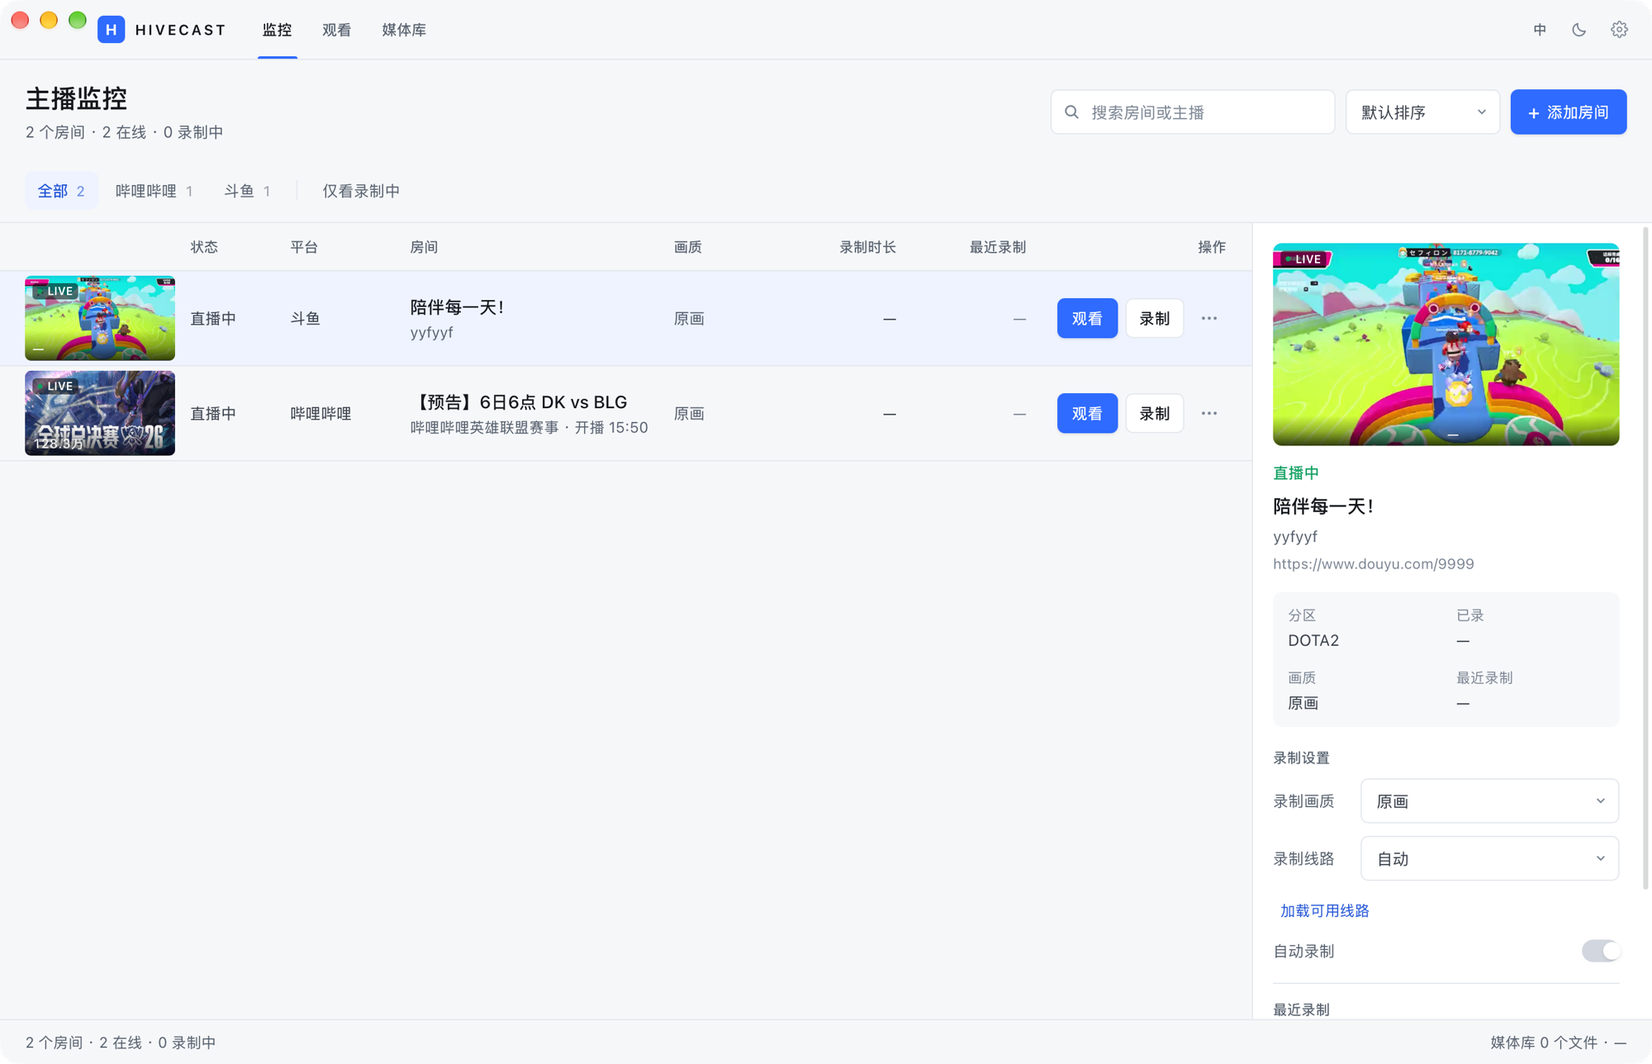
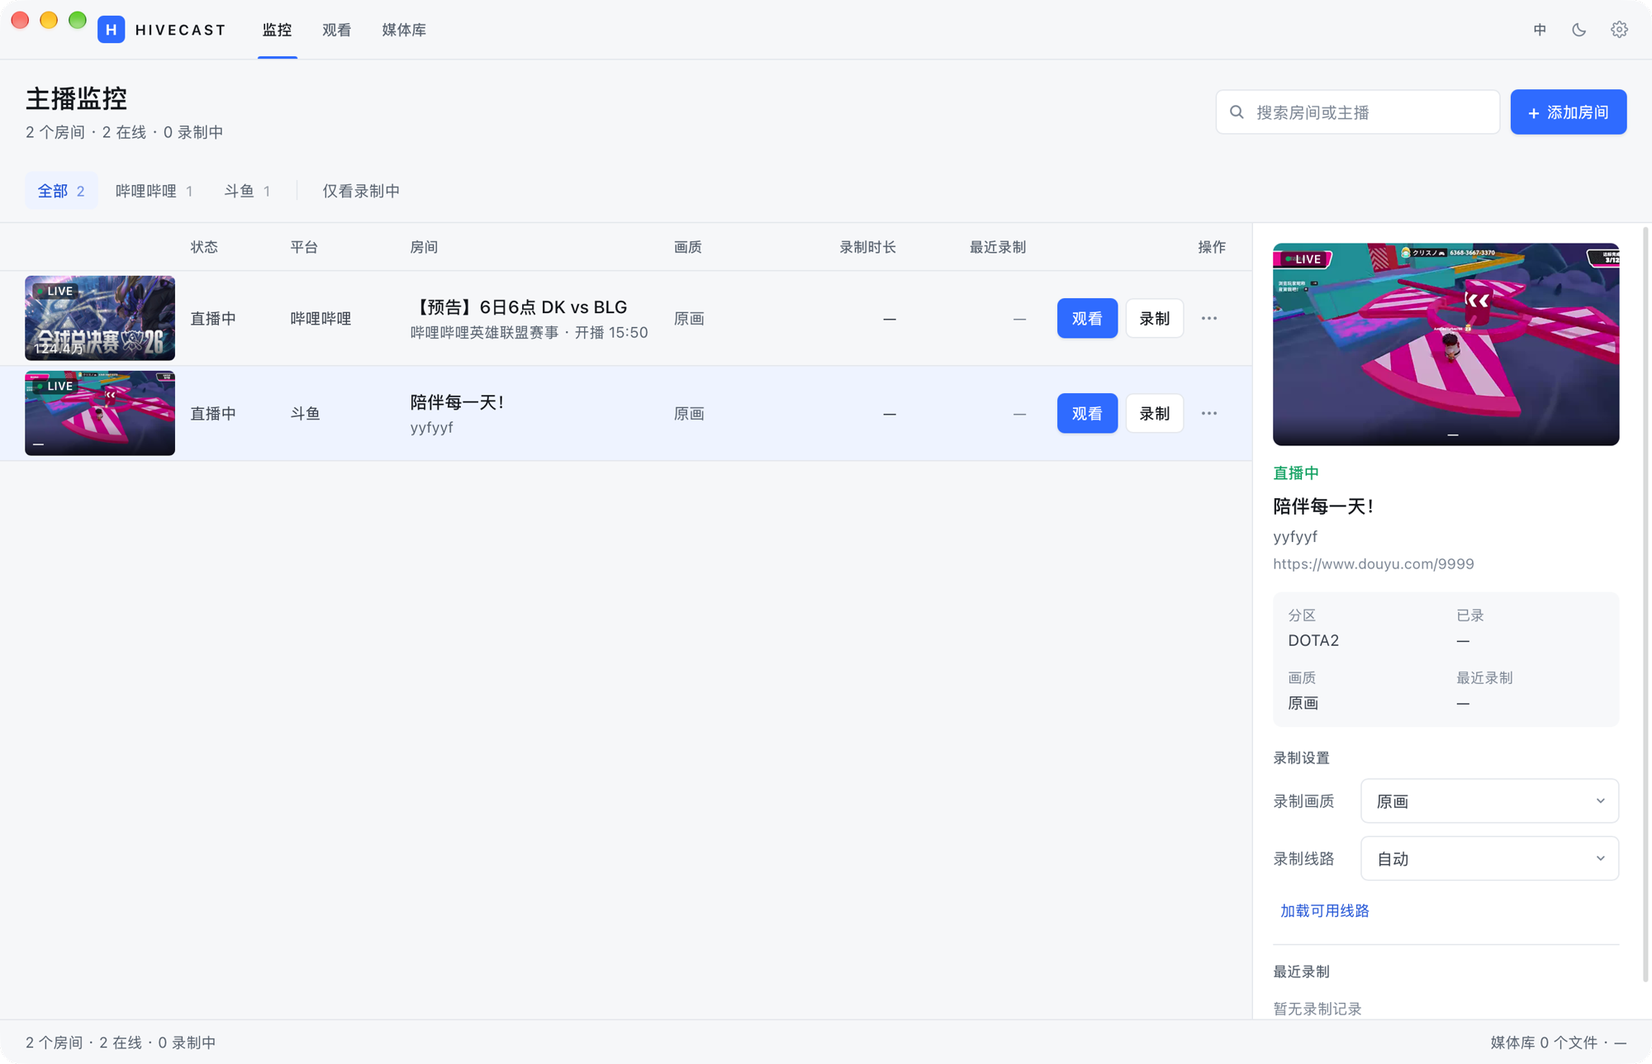
feat(ui): 监控页去掉排序、添加房间改弹窗、自动录制进菜单
- 排序固定按主播名称（localeCompare + numeric），删除排序下拉与相关文案
- 添加房间改为页面上方居中浮层：遮罩模糊、Esc/遮罩/✕ 关闭、回车提交
- 自动录制开关移入行内 ⋯ 菜单，显示开/关与勾选；详情栏不再重复
- 详情栏移除房间按钮删除，只保留菜单入口
- MP4/截图/ASS 三个后处理按钮补悬停说明
- docs/41 升到 v1.2 并换三张实测截图

diff --git a/src/features/monitor/MonitorPage.tsx b/src/features/monitor/MonitorPage.tsx
@@ -1,6 +1,6 @@
 import { useCallback, useEffect, useMemo, useState } from "react";
 import { useTranslation } from "react-i18next";
-import { Button, Select, Switch, cx } from "../../components/ui/Controls";
+import { Button, Select, cx } from "../../components/ui/Controls";
 import {
   describeError,
   isTauri,
@@ -38,7 +38,6 @@ const THUMB_W = 120;
 const THUMB_H = 68;
 
 type PostKind = "mp4" | "shot" | "ass" | "merge";
-type SortKey = "default" | "online" | "title";
 
 function pad(value: number): string {
   return value < 10 ? "0" + value : String(value);
@@ -155,7 +154,6 @@ export default function MonitorPage({ onOpenWatch }: { onOpenWatch?: () => void 
   const [query, setQuery] = useState("");
   const [platform, setPlatform] = useState("all");
   const [onlyRecording, setOnlyRecording] = useState(false);
-  const [sort, setSort] = useState<SortKey>("default");
   const [addOpen, setAddOpen] = useState(false);
   const [input, setInput] = useState("");
   const [adding, setAdding] = useState(false);
@@ -165,6 +163,17 @@ export default function MonitorPage({ onOpenWatch }: { onOpenWatch?: () => void 
   const [now, setNow] = useState(() => Date.now());
   const [selectedId, setSelectedId] = useState<string | null>(null);
   const [menuId, setMenuId] = useState<string | null>(null);
+  useEffect(() => {
+    if (!addOpen) return;
+    const onKey = (event: KeyboardEvent) => {
+      if (event.key === "Escape") {
+        setAddOpen(false);
+        setInput("");
+      }
+    };
+    window.addEventListener("keydown", onKey);
+    return () => window.removeEventListener("keydown", onKey);
+  }, [addOpen]);
   const [lines, setLines] = useState<LineInfo[] | null>(null);
   const [lineBusy, setLineBusy] = useState(false);
   const [postBusy, setPostBusy] = useState<string | null>(null);
@@ -250,14 +259,10 @@ export default function MonitorPage({ onOpenWatch }: { onOpenWatch?: () => void 
       if (!needle) return true;
       return (view.room.title + " " + view.room.hostName + " " + view.room.roomKey).toLowerCase().includes(needle);
     });
-    const rank = (view: RoomView) => (view.recording ? 0 : view.room.isLive ? 1 : 2);
-    return list.sort((a, b) => {
-      if (sort === "online") return b.room.online - a.room.online;
-      if (sort === "title") return (a.room.title || a.room.roomKey).localeCompare(b.room.title || b.room.roomKey);
-      const delta = rank(a) - rank(b);
-      return delta !== 0 ? delta : b.room.lastCheckedAt - a.room.lastCheckedAt;
-    });
-  }, [views, query, platform, onlyRecording, sort]);
+    // 固定按主播名称排序（中文按拼音、数字按数值），不再提供排序入口。
+    const label = (view: RoomView) => view.room.hostName || view.room.title || view.room.roomKey;
+    return list.sort((a, b) => label(a).localeCompare(label(b), undefined, { numeric: true }));
+  }, [views, query, platform, onlyRecording]);
 
   const selected = useMemo(() => views.find((view) => view.room.id === selectedId) ?? null, [views, selectedId]);
   const selectedSessions = useMemo(
@@ -489,7 +494,27 @@ export default function MonitorPage({ onOpenWatch }: { onOpenWatch?: () => void 
           {menuId === room.id ? (
             <>
               <div className="fixed inset-0 z-30" onClick={() => setMenuId(null)} />
-              <div className="absolute right-0 top-9 z-40 w-[136px] overflow-hidden rounded-[8px] border border-line bg-surface py-1 shadow-pop animate-pop">
+              <div className="absolute right-0 top-9 z-40 w-[176px] overflow-hidden rounded-[8px] border border-line bg-surface py-1 shadow-pop animate-pop">
+                <button
+                  type="button"
+                  onClick={() => {
+                    setMenuId(null);
+                    void run(room.id, () => roomSetAutoRecord(room.id, !room.autoRecord));
+                  }}
+                  className="flex h-8 w-full items-center gap-2 px-3 text-left text-[12.5px] text-ink-soft transition-colors hover:bg-raised"
+                >
+                  <span className="flex h-3.5 w-3.5 shrink-0 items-center justify-center text-accent-text">
+                    {room.autoRecord ? (
+                      <svg width="12" height="12" viewBox="0 0 12 12" fill="none" aria-hidden>
+                        <path d="M2.5 6.4l2.3 2.3 4.7-4.9" stroke="currentColor" strokeWidth="1.6" strokeLinecap="round" strokeLinejoin="round" />
+                      </svg>
+                    ) : null}
+                  </span>
+                  <span className="min-w-0 flex-1 truncate">{t("monitor.autoRecord")}</span>
+                  <span className="shrink-0 text-[11.5px] text-faint">
+                    {room.autoRecord ? t("monitor.toggleOn") : t("monitor.toggleOff")}
+                  </span>
+                </button>
                 <button
                   type="button"
                   disabled={!last}
@@ -521,7 +546,6 @@ export default function MonitorPage({ onOpenWatch }: { onOpenWatch?: () => void 
     const busy = busyId === room.id;
     const last = lastByRoom.get(room.id);
     const isRecording = Boolean(view.recording);
-    const confirm = confirmId === room.id;
     return (
       <aside className="flex w-[320px] shrink-0 flex-col overflow-y-auto border-l border-line bg-surface">
         <div className="p-4">
@@ -611,14 +635,6 @@ export default function MonitorPage({ onOpenWatch }: { onOpenWatch?: () => void 
             ) : lines.length === 0 ? (
               <span className="block text-[11.5px] text-faint">{t("monitor.lineEmpty")}</span>
             ) : null}
-            <div className="flex items-center justify-between pt-0.5">
-              <span className="text-[12.5px] text-muted">{t("monitor.autoRecord")}</span>
-              <Switch
-                checked={room.autoRecord}
-                label={t("monitor.autoRecord")}
-                onChange={(next) => void run(room.id, () => roomSetAutoRecord(room.id, next))}
-              />
-            </div>
           </div>
 
           <div className="mt-4 flex items-center gap-2 border-t border-line pt-3">
@@ -658,6 +674,7 @@ export default function MonitorPage({ onOpenWatch }: { onOpenWatch?: () => void 
                           <button
                             type="button"
                             disabled={postBusy === postKey(room.id, "mp4", session.id)}
+                            title={t("monitor.post.mp4Hint")}
                             onClick={() => void doPost(room.id, "mp4", session.id)}
                             className="focus-ring h-6 rounded-ctl border border-line px-1.5 text-[11px] text-ink-soft transition-colors hover:bg-raised disabled:opacity-40"
                           >
@@ -666,6 +683,7 @@ export default function MonitorPage({ onOpenWatch }: { onOpenWatch?: () => void 
                           <button
                             type="button"
                             disabled={postBusy === postKey(room.id, "shot", session.id)}
+                            title={t("monitor.post.shotHint")}
                             onClick={() => void doPost(room.id, "shot", session.id)}
                             className="focus-ring h-6 rounded-ctl border border-line px-1.5 text-[11px] text-ink-soft transition-colors hover:bg-raised disabled:opacity-40"
                           >
@@ -675,6 +693,7 @@ export default function MonitorPage({ onOpenWatch }: { onOpenWatch?: () => void 
                             <button
                               type="button"
                               disabled={postBusy === postKey(room.id, "ass", session.id)}
+                              title={t("monitor.post.assHint")}
                               onClick={() => void doPost(room.id, "ass", session.id)}
                               className="focus-ring h-6 rounded-ctl border border-line px-1.5 text-[11px] text-ink-soft transition-colors hover:bg-raised disabled:opacity-40"
                             >
@@ -689,17 +708,6 @@ export default function MonitorPage({ onOpenWatch }: { onOpenWatch?: () => void 
               })}
             </div>
           )}
-
-          <div className="mt-4 border-t border-line pt-3">
-            <Button
-              variant="ghost"
-              className="h-8 px-2 text-[12.5px] text-muted hover:text-rec"
-              onBlur={() => setConfirmId(null)}
-              onClick={() => void removeRoom(room)}
-            >
-              {confirm ? t("monitor.confirmRemove") : t("monitor.removeRoom")}
-            </Button>
-          </div>
         </div>
       </aside>
     );
@@ -736,18 +744,6 @@ export default function MonitorPage({ onOpenWatch }: { onOpenWatch?: () => void 
               className="focus-ring h-9 w-[228px] rounded-ctl border border-line bg-surface pl-8 pr-2.5 text-[13px] text-ink transition-colors placeholder:text-faint hover:border-line-strong"
             />
           </div>
-          <Select
-            value={sort}
-            onChange={(next) => setSort(next as SortKey)}
-            size="md"
-            title={t("monitor.sortLabel")}
-            options={[
-              { value: "default", label: t("monitor.sortDefault") },
-              { value: "online", label: t("monitor.sortOnline") },
-              { value: "title", label: t("monitor.sortTitle") },
-            ]}
-            className="w-[124px]"
-          />
           <Button size="lg" variant="primary" onClick={() => setAddOpen((open) => !open)}>
             <span className="text-[15px] leading-none">+</span>
             {t("monitor.addRoom")}
@@ -756,35 +752,63 @@ export default function MonitorPage({ onOpenWatch }: { onOpenWatch?: () => void 
       </div>
 
       {addOpen ? (
-        <form
-          className="flex shrink-0 items-center gap-2 border-y border-line bg-raised/50 px-5 py-2.5"
-          onSubmit={(event) => {
-            event.preventDefault();
-            void add();
+        <div
+          className="fixed inset-0 z-50 flex items-start justify-center bg-black/30 px-6 pt-[88px] backdrop-blur-[2px] animate-fade-in"
+          onMouseDown={() => {
+            setAddOpen(false);
+            setInput("");
           }}
         >
-          <input
-            autoFocus
-            value={input}
-            onChange={(event) => setInput(event.target.value)}
-            placeholder={t("monitor.inputPlaceholder")}
-            spellCheck={false}
-            className="focus-ring h-9 w-full max-w-[560px] rounded-ctl border border-line bg-surface px-3 text-[13px] text-ink transition-colors placeholder:text-faint hover:border-line-strong"
-          />
-          <Button size="lg" type="submit" variant="primary" disabled={adding || !input.trim()}>
-            {adding ? t("monitor.adding") : t("monitor.add")}
-          </Button>
-          <Button
-            size="lg"
-            variant="ghost"
-            onClick={() => {
-              setAddOpen(false);
-              setInput("");
+          <form
+            onMouseDown={(event) => event.stopPropagation()}
+            onSubmit={(event) => {
+              event.preventDefault();
+              void add();
             }}
+            className="w-[560px] max-w-full rounded-panel border border-line bg-surface p-5 shadow-pop animate-pop"
           >
-            {t("monitor.cancel")}
-          </Button>
-        </form>
+            <div className="flex items-start justify-between gap-3">
+              <div>
+                <h2 className="text-[15px] font-semibold text-ink">{t("monitor.addRoom")}</h2>
+                <p className="mt-1 text-[12px] leading-relaxed text-muted">{t("monitor.inputPlaceholder")}</p>
+              </div>
+              <button
+                type="button"
+                aria-label={t("monitor.cancel")}
+                onClick={() => {
+                  setAddOpen(false);
+                  setInput("");
+                }}
+                className="focus-ring -mr-1 -mt-1 flex h-7 w-7 items-center justify-center rounded-ctl text-faint hover:bg-raised hover:text-ink"
+              >
+                ✕
+              </button>
+            </div>
+            <input
+              autoFocus
+              value={input}
+              onChange={(event) => setInput(event.target.value)}
+              placeholder="https://live.bilibili.com/6"
+              spellCheck={false}
+              className="focus-ring mt-4 h-10 w-full rounded-ctl border border-line bg-surface px-3 text-[13px] text-ink transition-colors placeholder:text-faint hover:border-line-strong"
+            />
+            <div className="mt-4 flex justify-end gap-2">
+              <Button
+                size="lg"
+                variant="ghost"
+                onClick={() => {
+                  setAddOpen(false);
+                  setInput("");
+                }}
+              >
+                {t("monitor.cancel")}
+              </Button>
+              <Button size="lg" type="submit" variant="primary" disabled={adding || !input.trim()}>
+                {adding ? t("monitor.adding") : t("monitor.add")}
+              </Button>
+            </div>
+          </form>
+        </div>
       ) : null}
 
       {error ? (

diff --git a/docs/41-监控页重做.md b/docs/41-监控页重做.md
@@ -1,15 +1,17 @@
 # 41 · 监控页重做：表格工作台 + 右侧详情
 
-> 状态：v1.1（2026-11-05），已落地并通过真机验收。
+> 状态：v1.2（2026-11-05），已落地并通过真机验收。
 > 关联：[40 UI/UX 设计方案](40-UIUX-设计方案.md)、[19 产品蓝图](19-产品蓝图与阶段计划.md) §5 M16。
 
 ## 0. 结论
 
-监控页现在是「一张表 + 一块固定详情栏」：左边 8 列房间表格负责扫视与常用操作，右边 320px 详情栏负责这个房间的画质、线路、自动录制与最近录制。
+监控页现在是「一张表 + 一块固定详情栏」：左边 8 列房间表格负责扫视与全部操作（观看、录制、自动录制、Finder、移除），右边 320px 详情栏负责这个房间的画质、线路与最近录制。
 
 ![浅色](assets/ui-monitor-table.png)
 
 ![深色](assets/ui-monitor-table-dark.png)
+
+![添加房间弹窗](assets/ui-monitor-add.png)
 
 三句话概括这次返工：
 
@@ -29,7 +31,7 @@
 
 ```text
 ┌──────────────────────────────────────────────────────────────┐
-│ 主播监控            2 个房间 · 2 在线 · 0 录制中   [搜索][排序][+ 添加] │
+│ 主播监控            2 个房间 · 2 在线 · 0 录制中        [搜索][+ 添加] │
 ├──────────────────────────────────────────────────────────────┤
 │ 全部 2 | 哔哩哔哩 1 | 斗鱼 1 | 仅看录制中                        │
 ├───────────────────────────────────────────────┬──────────────┤
@@ -45,7 +47,7 @@
 └──────────────────────────────────────────────────────────────┘
 ```
 
-页面自上而下七层：顶栏（品牌 + Tab + 账号/设置，见 §7）→ 标题行 → 添加房间内联条 → 错误/通知条 → 筛选行 → 表格 + 详情 → 底部状态条。
+页面自上而下：顶栏（品牌 + Tab + 账号/设置，见 §7）→ 标题行 → 错误/通知条 → 筛选行 → 表格 + 详情 → 底部状态条。「添加房间」是从页面上方居中的浮层弹窗，不占版式（见 §6）。
 
 ## 3. 表格规格
 
@@ -65,7 +67,7 @@ const ROW_H = 76;
 | 画质 | 78 | 录制档位（原画 / 蓝光4M / 超清…） |
 | 录制时长 | 88 | 右对齐等宽数字，未录制为 — |
 | 最近录制 | 92 | 右对齐，当天给 HH:mm，更早给 MM-DD |
-| 操作 | 148 | 观看（主按钮）、录制/停止（描边）、⋯ 菜单（Finder、移除房间，二次确认） |
+| 操作 | 148 | 观看（主按钮）、录制/停止（描边）、⋯ 菜单（自动录制开关、Finder、移除房间，移除需二次确认） |
 
 缩略图来源 `coverUrl ?? avatarUrl`，都没有时显示主播名首字。离线行不做灰度处理（平台封面本来就暗），只靠状态文字与最近录制日期区分。
 
@@ -78,9 +80,8 @@ const ROW_H = 76;
 | 预览 | 288×162 缩略图，点击即观看 |
 | 标题区 | 状态（红/绿/灰）+ 开播时间、房间标题 15px、主播 12.5px、房间 URL 11.5px（过长省略） |
 | 信息四格 | 分区、累计已录、画质、最近录制，浅底块 2×2 |
-| 录制设置 | 录制画质、录制线路（下拉 + 加载可用线路）、自动录制开关 |
-| 最近录制 | 最多 4 条：时间 · 时长 · 体积，第二行状态 + 常显的 MP4/截图/ASS 按钮；有 2 条以上可「合并」 |
-| 底部 | 移除房间（点两次确认） |
+| 录制设置 | 录制画质、录制线路（下拉 + 加载可用线路） |
+| 最近录制 | 最多 4 条：时间 · 时长 · 体积，第二行状态 + 常显的 MP4/截图/ASS 按钮（悬停有说明：转封装成 MP4 / 抽一帧 PNG / 导出弹幕 ASS）；有 2 条以上可「合并」 |
 
 后处理按钮不再 hover 才出现——上一版被反馈「藏在展开里看不见」，现在每条录制都常显三个 24px 高的描边小按钮。
 
@@ -103,10 +104,11 @@ const ROW_H = 76;
 | --- | --- |
 | 选中 | 点行任意位置，右栏换内容，行底色 `accent-soft`；不改滚动位置 |
 | 首次进入 | 自动选中第一行，右栏不留空白 |
-| 排序 | 默认「录制中 → 直播中 → 离线」，同档按最近检查时间倒序；另可按人气、按名称 |
+| 排序 | 固定按主播名称（`localeCompare` 带 `numeric`，中文按拼音、数字按数值）；没有排序控件 |
 | 筛选 | 平台胶囊带计数 + 仅看录制中 + 搜索（标题/主播/房间号），三者叠加 |
-| 添加房间 | 内联表单，回车提交，失败保留输入 |
-| 移除房间 | 操作列 ⋯ 菜单与详情栏底部都能触发，点两次确认 |
+| 添加房间 | 页面上方居中的浮层弹窗：遮罩模糊、`Esc`/点遮罩/✕ 关闭，回车提交，失败保留输入 |
+| 移除房间 | 只在操作列 ⋯ 菜单里，点两次确认 |
+| 自动录制 | 操作列 ⋯ 菜单第一项，显示开/关与勾选；开启后房间开播即自动开始录制 |
 | 危险/异步 | 请求期间该行降透明度并禁用按钮；错误/成功走顶部色带 |
 
 ## 7. macOS 标题栏
@@ -120,7 +122,7 @@ const ROW_H = 76;
 | `src/features/monitor/MonitorPage.tsx` | 整页（约 780 行）：`COLUMNS`/`ROW_H`/`THUMB_*` 常量、`Thumb`、`renderRow`、`renderPanel` |
 | `src/components/ui/Controls.tsx` | Button 增 `lg`（h-9），Select 增 `size="md"`（h-9），其余页面默认尺寸不变 |
 | `src/styles/index.css` | token、焦点策略（输入框不画 outline）、圆角 |
-| `src/i18n/zh-CN.json`、`en-US.json` | 新增 `monitor.panelSettings`、`monitor.more`，删除 `density*`、`colOnline`，共 290 键 |
+| `src/i18n/zh-CN.json`、`en-US.json` | 新增 `monitor.toggleOn/toggleOff`、`monitor.post.*Hint`，删除排序四键，共 291 键 |
 
 已删除：`src/lib/uiPrefs.ts`（密度偏好）、`src/features/design/`（方向 mock）。
 
@@ -128,13 +130,13 @@ const ROW_H = 76;
 
 - 环境：macOS 26，窗口 1321×860pt（2x → 2642×1702），库内 2 个真实房间（斗鱼 9999、哔哩哔哩 6），两张图分别是浅色与深色暖黑。
 - 布局：表头与行共用 `COLUMNS`，两张截图的列位一致；详情栏 320 与表格不重叠。
-- 校验：`pnpm exec tsc -b`、`pnpm build`、`node scripts/check-i18n.mjs`（290 键）、`node scripts/check-docs.mjs` 全部通过。
+- 校验：`pnpm exec tsc -b`、`pnpm build`、`node scripts/check-i18n.mjs`（291 键）、`node scripts/check-docs.mjs` 全部通过。
 
 ## 10. 缺口
 
 | 缺口 | 说明 |
 | --- | --- |
-| 详情栏需要滚动 | 860 高的窗口里「最近录制」以下要滚，移除房间在底部 |
+| 详情栏需要滚动 | 860 高的窗口里「最近录制」以下要滚，后处理按钮可能落在折叠线下方 |
 | 列宽不可调 | 固定模板，窄窗口下房间名列会被压缩 |
 | 缩略图最长滞后一个轮询周期 | 依赖平台的 `coverUrl` |
 | 无人气的平台 | 缩略图底部显示 — |
@@ -147,4 +149,5 @@ const ROW_H = 76;
 | --- | --- | --- |
 | v0.1 | 2026-11-05 | 三个结构方向 + 四套 tone 的 mock，用户裁决「按建议来」 |
 | v1.0 | 2026-11-05 | 10 列表格 + 行内展开 + 两档密度 + Overlay 标题栏（已废弃） |
+| v1.2 | 2026-11-05 | 去掉排序控件（固定按主播名）；添加房间改为页面上方居中弹窗；自动录制移进 ⋯ 菜单；详情栏去掉移除房间按钮；后处理按钮补悬停说明 |
 | v1.1 | 2026-11-05 | 按反馈重做：行内展开改右侧固定详情、去掉状态/平台圆点与分区/人气列、常用按钮进操作列、取消密度、整体放大、输入框去蓝色焦点框 |

diff --git a/README.md b/README.md
@@ -56,7 +56,7 @@
 | [38-M13-回放滑窗缓存](docs/38-M13-回放滑窗缓存.md) | 只转播放点附近 180 秒、换窗复用、起播偏移、整段进度条与自动续窗 | 改本地回放时 |
 | [39-M14-Cookie加密存储](docs/39-M14-Cookie加密存储.md) | AES-256-GCM + 本地密钥文件、启动迁移、威胁模型与取舍 | 动凭据存储时 |
 | [40-UIUX-设计方案](docs/40-UIUX-设计方案.md) | 浅色/深色 token 全表、组件层、五个页面结构、主题实现、弹幕层按画面定位、待裁决项 | 改界面、加页面或调主题时 |
-| [41-监控页重做](docs/41-监控页重做.md) | 监控页表格工作台：8 列规格、行高与字号、320px 右侧详情栏、Overlay 标题栏、焦点策略、两张实测截图 | 改监控页、调表格列宽或加筛选时 |
+| [41-监控页重做](docs/41-监控页重做.md) | 监控页表格工作台：8 列规格、行高与字号、320px 右侧详情栏、添加房间弹窗、自动录制入口、Overlay 标题栏、三张实测截图 | 改监控页、调表格列宽或加筛选时 |
 
 ## 阅读顺序建议
 
